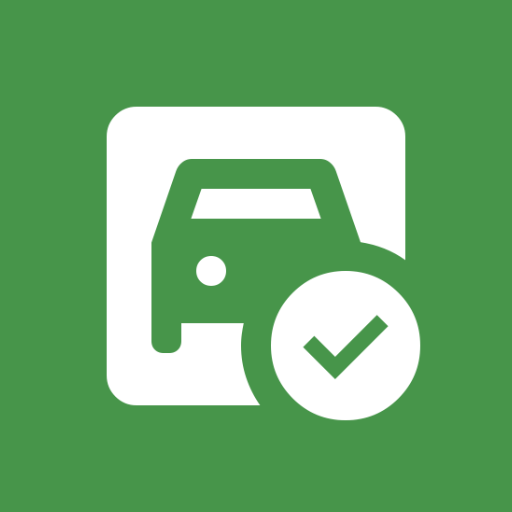
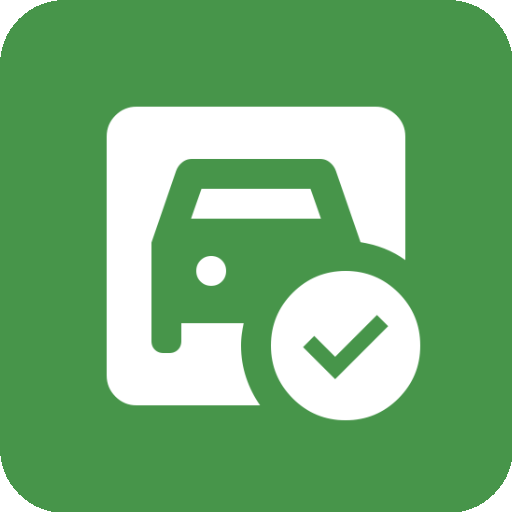
UI: thinner unified border. Demo dataset (#13)
Round app icon
Upd dev docs

diff --git a/lib/pages/settings_page.dart b/lib/pages/settings_page.dart
@@ -62,13 +62,6 @@ Future<T?> _showSettingDialog<T>(
   );
 }
 
-BoxDecoration _outlinedBorder(BuildContext context) => BoxDecoration(
-  border: Border.fromBorderSide(
-    BorderSide(color: Theme.of(context).colorScheme.outlineVariant, width: 1.5),
-  ),
-  borderRadius: BorderRadius.all(Radius.circular(8)),
-);
-
 class _SettingsCard extends StatelessWidget {
   const _SettingsCard({required this.title, required this.value, this.onTap});
   final Widget title;
@@ -84,7 +77,7 @@ class _SettingsCard extends StatelessWidget {
     ];
     return Container(
       margin: const EdgeInsets.symmetric(horizontal: 16, vertical: 4),
-      decoration: _outlinedBorder(context),
+      decoration: helpers.outlinedBorder(context),
       child: ListTile(
         title: title,
         trailing: Row(mainAxisSize: MainAxisSize.min, children: content),
@@ -300,7 +293,7 @@ class _ImportExport extends ConsumerWidget {
 
   @override
   Widget build(BuildContext context, WidgetRef ref) {
-    final border = _outlinedBorder(context);
+    final border = helpers.outlinedBorder(context);
     return Padding(
       padding: const EdgeInsets.symmetric(horizontal: 16, vertical: 4),
       child: Row(

diff --git a/packages/backend/test/csv_import_export_test.dart b/packages/backend/test/csv_import_export_test.dart
@@ -1,6 +1,8 @@
 // Copyright (c) 2026 vadxx
 // SPDX-License-Identifier: MIT
 
+import 'dart:io';
+
 import 'package:test/test.dart';
 import 'package:sqlite3/sqlite3.dart';
 import 'package:sqlite3/common.dart';
@@ -489,6 +491,22 @@ void main() {
       expect(carWorksRepo2.loadByCarId(1).first.description, 'Oil change');
 
       db2.close();
+    });
+
+    test('imports the demo dataset from datasets/demo_dataset.csv', () {
+      final csvFile = File('../../datasets/demo_dataset.csv');
+      final csv = csvFile.readAsStringSync();
+
+      CsvService.importCsv(repos, csv);
+
+      final cars = carsRepo.load();
+      expect(cars.length, 4);
+      expect(cars.map((c) => c.make).toSet(), {'VW', 'Audi', 'Skoda'});
+
+      expect(carWorksRepo.loadByCarId(1).length, 8);
+      expect(carWorksRepo.loadByCarId(2).length, 6);
+      expect(carWorksRepo.loadByCarId(3).length, 8);
+      expect(carWorksRepo.loadByCarId(4).length, 5);
     });
   });
 }

diff --git a/lib/pages/helpers.dart b/lib/pages/helpers.dart
@@ -272,19 +272,25 @@ Column subColumn(
   );
 }
 
+BoxDecoration outlinedBorder(BuildContext context, {double radius = 8}) =>
+    BoxDecoration(
+      border: Border.all(
+        color: Theme.of(context).colorScheme.outlineVariant,
+        width: 1.0,
+      ),
+      borderRadius: BorderRadius.circular(radius),
+    );
+
 Widget outlinedTile(
   BuildContext context,
   Widget child, {
   EdgeInsetsGeometry? padding,
 }) {
-  final border = BoxDecoration(
-    border: Border.all(
-      color: Theme.of(context).colorScheme.outlineVariant,
-      width: 1.5,
-    ),
-    borderRadius: BorderRadius.circular(8),
+  return Container(
+    decoration: outlinedBorder(context),
+    padding: padding,
+    child: child,
   );
-  return Container(decoration: border, padding: padding, child: child);
 }
 
 TextStyle costTextStyle(BuildContext context) => TextStyle(

diff --git a/AGENTS.md b/AGENTS.md
@@ -22,6 +22,7 @@ This file is a guide for AI coding agents working on the `garage_app` project. I
 | `pubspec.yaml` | Root Flutter app dependencies and metadata |
 | `packages/backend/pubspec.yaml` | Local Dart package with business logic, DB, models |
 | `analysis_options.yaml` | Flutter lints config; excludes `packages/**` from app analysis |
+| `packages/backend/analysis_options.yaml` | Backend lints config (`package:lints/recommended.yaml`) |
 | `slang.yaml` | CSV-based i18n generation config |
 | `build.sh` | Project bootstrap/build script (runs code-gen, icon generation) |
 | `test.sh` | Format check + backend tests + app widget tests |
@@ -60,9 +61,33 @@ garage_app/
 │   ├── main.dart                 # App entry point
 │   ├── app_router.dart           # go_router route definitions + navigation helpers
 │   ├── extensions/               # Flutter-facing extensions on backend enums
-│   ├── i18n/                     # Slang generated files + CSV source
-│   ├── pages/                    # UI pages (screens)
+│   │   └── settings_extensions.dart
+│   ├── i18n/                     # Slang generated files + CSV source + barrel export
+│   │   ├── strings.i18n.csv
+│   │   ├── strings.g.dart
+│   │   ├── strings_en.g.dart
+│   │   ├── strings_ru.g.dart
+│   │   ├── strings_de.g.dart
+│   │   └── i18n.dart
+│   ├── pages/                    # UI pages (screens) + shared helpers
+│   │   ├── home_page.dart
+│   │   ├── car_detail_page.dart
+│   │   ├── add_edit_car_page.dart
+│   │   ├── add_edit_car_work_page.dart
+│   │   ├── settings_page.dart
+│   │   ├── stats_group.dart
+│   │   ├── helpers.dart
+│   │   └── pages.dart
 │   └── providers/                # Riverpod providers and notifiers
+│       ├── repositories_provider.dart
+│       ├── app_settings_provider.dart
+│       ├── cars_provider.dart
+│       ├── car_form_provider.dart
+│       ├── car_works_provider.dart
+│       ├── car_work_form_provider.dart
+│       ├── car_stats_provider.dart
+│       ├── csv_io.dart
+│       └── providers.dart
 ├── packages/backend/
 │   └── lib/
 │       ├── backend.dart          # Public API (abstract repos, models, utils)
@@ -72,10 +97,20 @@ garage_app/
 │       │   ├── csv_import_export.dart    # CSV import/export service
 │       │   ├── currency_extensions.dart  # USD ↔ currency formatting/conversion
 │       │   ├── distance_extensions.dart  # km ↔ mi formatting/conversion
-│       │   ├── date_utils.dart           # Epoch/date helpers
-│       │   ├── models/                   # Freezed data models
 │       │   ├── routes.dart               # Route path constants
+│       │   ├── utils/date_utils.dart     # Epoch/date helpers
+│       │   ├── models/                   # Freezed data models
+│       │   │   ├── models.dart
+│       │   │   ├── settings.dart
+│       │   │   ├── car.dart
+│       │   │   ├── car_work.dart
+│       │   │   └── car_stats.dart
 │       │   └── sqlite_repositories/      # SQLite repository implementations
+│       │       ├── sqlite_repositories.dart
+│       │       ├── repository.dart
+│       │       ├── settings.dart
+│       │       ├── cars.dart
+│       │       └── cars_works.dart
 │       └── test/                 # Backend unit tests
 ├── test/                         # Flutter widget and integration-style tests
 └── android/, windows/            # Platform-specific projects
@@ -83,18 +118,19 @@ garage_app/
 
 ### UI layer (`lib/`)
 
-- `main.dart` bootstraps the app, initializes Riverpod, sets device locale, and awaits the `repositoriesProvider` before showing the router.
-- `app_router.dart` defines all `go_router` routes using constants from `backend/src/routes.dart`.
-- `pages/` contains one file per screen and re-exports them via `pages.dart`. Helpers live in `pages/helpers.dart`.
-- `providers/` contains Riverpod providers:
+- `main.dart` bootstraps the app, initializes Riverpod, sets the device locale via `LocaleSettings.useDeviceLocale()`, and awaits the `repositoriesProvider` before showing the router.
+- `app_router.dart` defines all `go_router` routes using constants from `backend/src/routes.dart` and exposes typed navigation helpers (`goToSettings`, `goToCarDetail`, `goToAddCar`, `goToEditCar`, `goToAddCarWork`, `goToEditCarWork`, `goToHome`).
+- `pages/` contains one file per screen and re-exports them via `pages.dart`. Shared widgets and helpers live in `pages/helpers.dart`.
+- `providers/` contains Riverpod providers and re-exports them via `providers.dart`:
   - `repositories_provider.dart` — async init of `SqliteRepositories` via `path_provider`
   - `app_settings_provider.dart` — app settings state
   - `cars_provider.dart` — car list CRUD
-  - `car_works_provider.dart` — works per car
-  - `car_stats_provider.dart` — computed stats per car
+  - `car_works_provider.dart` — works per car (`FutureProvider.family`)
+  - `car_stats_provider.dart` — computed stats per car (`FutureProvider.family`)
   - `car_form_provider.dart` / `car_work_form_provider.dart` — form state + validation
   - `csv_io.dart` — import/export actions
 - `extensions/settings_extensions.dart` maps backend enums (`Language`, `Theme`) to Flutter types (`Locale`, `ThemeMode`).
+- `i18n/i18n.dart` is a barrel file that exports `package:slang_flutter/slang_flutter.dart` and the generated `strings.g.dart`.
 
 ### Backend layer (`packages/backend/`)
 
@@ -105,11 +141,11 @@ This is the single source of truth for business logic and persistence.
   - `SettingsRepository`
   - `CarsRepository`
   - `CarWorksRepository`
-  - `Repositories` aggregate interface with `transaction()` support
-- **SQLite**: each repository creates/migrates its own tables on construction. The database is opened once in `SqliteRepositories.init(appStoragePath)` and stored as `garage.db`.
+  - `Repositories` aggregate interface with `init()`, `clearAll()`, and `transaction()` support
+- **SQLite**: the database is opened once in `SqliteRepositories.init(appStoragePath)` (`src/sqlite_repositories/repository.dart`) and stored as `garage.db`. Each repository creates/migrates its own tables on construction.
 - **Currency**: amounts are stored in USD internally and converted to the user's chosen currency (`usd`, `rub`, `eur`) for display/input.
 - **Distance**: mileage is stored in kilometers and converted to `km`/`mi` for display/input.
-- **CSV**: `CsvService.exportCsv()` / `importCsv()` handle full backup/restore; import requires an empty database.
+- **CSV**: `CsvService.exportCsv()` / `importCsv()` handle full backup/restore. `importCsv()` rejects imports into a non-empty database unless `clearExisting` is `true`; the UI prompts the user for confirmation before replacing data.
 
 ---
 
@@ -179,8 +215,8 @@ flutter test                          # app widget tests
 ## Code style guidelines
 
 - **Formatting**: follow `dart format`. Do not commit unformatted code; CI enforces this.
-- **Lints**: root app uses `package:flutter_lints/flutter.yaml`. `packages/backend` uses `package:lints`. `analysis_options.yaml` excludes `packages/**` from the app's analyzer.
-- **File headers**: every Dart file starts with a copyright and SPDX license header:
+- **Lints**: root app uses `package:flutter_lints/flutter.yaml`. `packages/backend` uses `package:lints/recommended.yaml`. `analysis_options.yaml` excludes `packages/**` from the app's analyzer.
+- **File headers**: Dart source files are expected to start with a copyright and SPDX license header:
 
   ```dart
   // Copyright (c) 2026 vadxx
@@ -190,7 +226,7 @@ flutter test                          # app widget tests
 - **Imports**:
   - Import the public backend API with `package:backend/backend.dart`.
   - Import the SQLite implementation **only** in `lib/providers/repositories_provider.dart` (it is a single-import dependency).
-  - Use `import 'package:backend/backend.dart' as backend;` and alias when there are name collisions (e.g., `Theme`, `Language`).
+  - Use `import 'package:backend/backend.dart' as backend;` and alias when there are name collisions (e.g., `Theme`, `Language`), or use `hide Theme` / `show ...` as appropriate.
 - **Naming**: follow Dart conventions (`PascalCase` classes, `lowerCamelCase` members, `lowercase_with_underscores` files).
 - **Comments**: keep comments factual and close to the code they explain. Complex SQL queries are wrapped with `// dart format off` / `// dart format on`.
 - **SQL migrations**: the app uses best-effort `ALTER TABLE` migrations wrapped in `try/catch` so existing databases are upgraded automatically.
@@ -240,7 +276,7 @@ When writing new widget tests, follow the existing pattern: build the app with `
 
 ## Localization (i18n)
 
-Translations are maintained in `lib/i18n/strings.i18n.csv` (CSV format with `key,en,ru`).
+Translations are maintained in `lib/i18n/strings.i18n.csv` (CSV format with `key,en,ru,de`).
 
 After editing the CSV, regenerate Dart code:
 
@@ -248,7 +284,7 @@ After editing the CSV, regenerate Dart code:
 dart run slang
 ```
 
-Generated files (`strings.g.dart`, `strings_en.g.dart`, `strings_ru.g.dart`) are committed. Do not edit generated files by hand.
+Generated files (`strings.g.dart`, `strings_en.g.dart`, `strings_ru.g.dart`, `strings_de.g.dart`) are committed. Do not edit generated files by hand.
 
 The base locale is English (`en`). In widgets, use `context.t.<key>` to access translations.
 
@@ -286,6 +322,6 @@ No automated deployment to app stores is configured. Release APKs are produced a
 - **Currency storage**: prices, costs, and car values are stored in USD. Convert with `currencyToUsd()` before saving and `formatCurrency()` / `usdToCurrency()` when displaying or seeding form fields.
 - **Distance storage**: mileage is stored in km. Convert with `unitToKm()` on input and `formatDistance()` / `distanceToUnit()` for display.
 - **Stats recalculation**: `CarsRepository.recalculateCarStats()` updates `totalSpent`, `lastOilChangeKm`, and `topCategory` from works. It is invoked after inserting/updating/deleting works.
-- **Oil health**: `oilHealth()` in `car_stats.dart` compares current mileage to the last oil change mileage and a configurable interval (default 10,000 km).
-- **CSV import**: requires an empty database. If importing, the user must clear existing data first.
+- **Oil health**: `oilHealth()` in `car_stats.dart` compares current mileage to the last oil change mileage and a configurable interval (`oilIntervalKm`, default 10,000 km).
+- **CSV import**: by default requires an empty database. When the database is not empty, the UI asks the user to confirm replacement; if confirmed, `CsvService.importCsv()` is called with `clearExisting: true`.
 - **Android build workaround**: `build.sh` and `android/build.gradle.kts` apply the Kotlin Android plugin globally because `file_picker v11.0.2` conditionally skips it when AGP ≥ 9. This can be removed once `file_picker` migrates to built-in Kotlin support.

diff --git a/DEV.md b/DEV.md
@@ -1,3 +1,5 @@
-## References
+## Testing
+- You can use [.CSV files from ./datasets](datasets/) to test the app with data on your local device. Upload the file to your device, then specify it on the app from empty home screen or settings.
 
+## References
 - `git worktree`'s tutorial - [link to my gist](https://gist.github.com/vadxx/b2ef4c0c3bfda0d4e7a6666fc898ad7a)

diff --git a/README.md b/README.md
@@ -1,4 +1,4 @@
-# <img src="./app_icon.png" width="22" /> garage_app
+# <img src="./app_icon.png" width="24" /> garage_app
 Your garage of cars in your phone. Track their maintenance and daily spendings.
 
 Flutter app. Supports Windows and Android platforms. Other platforms will be supported later.
